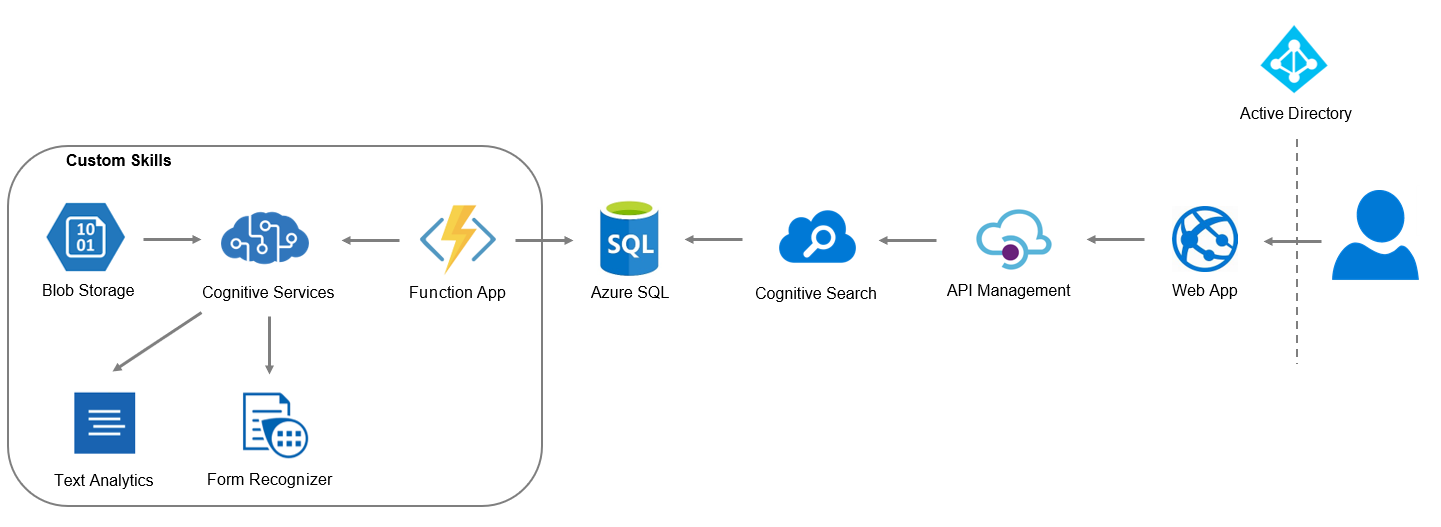
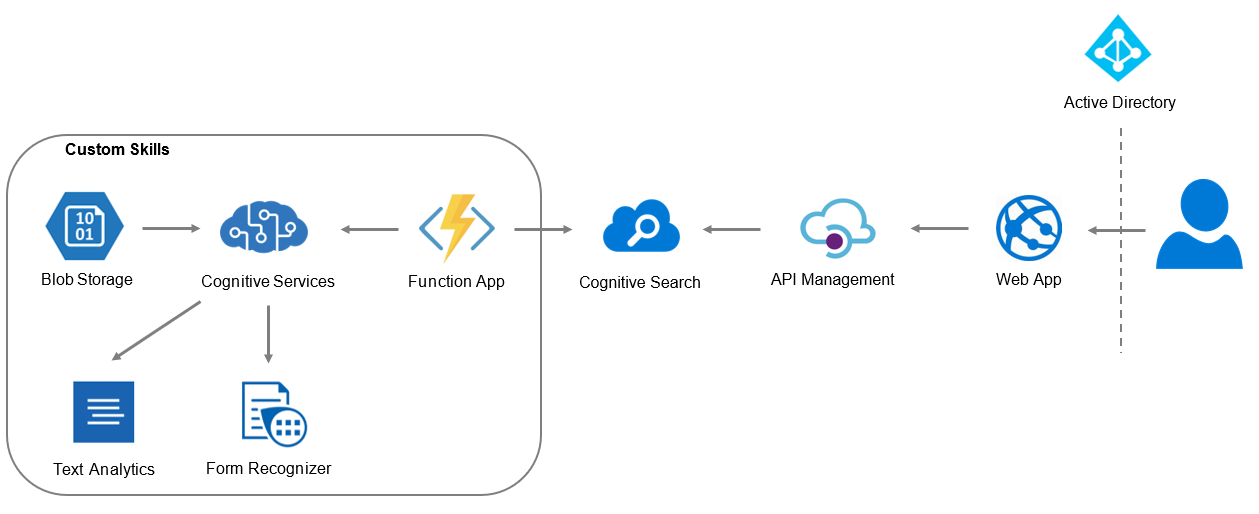
Update architecture and readme

diff --git a/README.md b/README.md
@@ -18,126 +18,37 @@ Wiele organizacji boryka się z problemem zarządzania wiedzą w organizacji. O 
 * ekstrakcja danych z dokumentów unstructured
 * przechowywanie dokumentów i ich metadanych w bazie danych
 * wyszukiwarka danych i dokumentów w postaci aplikacji webowej
-* możliwość wgrywania nowych plików
 
 ## Architektura rozwiązania
-(wstępna wersja)
 
 ![Image](images/architektura.png)
 
-Serwisy:
-* Function App, Azure AD, Graph API - do przygotowania danych (zapis w jednolitym formacie itp.)
-* Cognitive Services, Form Recognition (i/lub Document Extraction) - do wstępnej ekstrakcji danych
-* Azure Databricks - do połączenia Form Recognition z naszym własnym modelem sieci neuronowej i zapisania wyników w bazie danych
-* Blob Storage - baza danych przechowująca pliki wraz z ich metadanymi
-* Elastic Search App - klaster Elasticsearcha, który implementuje inteligentne wyszukiwanie. Jest to element opcjonalny, początkowo
-zaimplementujemy Azure Search lub Cognitive Search
-* Web App - aplikacja webowa (wyszukiwarka)
+## Opis działania aplikacji
+Pliki dokumentów będą przechowywane w bazie Azure Blob Storage. Z użyciem Function App i Cognitive Services (Text Analytics
+oraz Form Recognizer) utworzymy Custom Skille. Wyciągnięte meta-dane będą wyszukiwane poprzez Cognitive Search zintegrowanym 
+z API Management. Użytkownik będzie mieć dostęp do dokumentów i ich meta-danych poprzez aplikację webową (Web App), do której
+dostęp będzie ograniczony poprzez Active Directory.
 
-## Opis działania
-
-### 1. Przygotowanie Danych
-
-Azure Function App -> Azure AD -> Microsoft Graph
-
-Przykład: https://docs.microsoft.com/en-us/graph/api/driveitem-get-content-format?view=graph-rest-beta&tabs=http
-https://docs.microsoft.com/pl-pl/azure/active-directory/identity-protection/howto-identity-protection-graph-api
-
-### 2. Ekstrakcja danych
-
-Form Recognizer (Cognitive Services):
-
-https://azure.microsoft.com/en-us/services/cognitive-services/form-recognizer/
-
-https://techcommunity.microsoft.com/t5/azure-ai/accelerate-extraction-of-text-data-and-structure-from-your/ba-p/1507365
-
-https://docs.microsoft.com/en-us/azure/cognitive-services/form-recognizer/overview?tabs=v2-0
-
-Inne:
-- Document Extraction (Cognitive Services) 
-https://docs.microsoft.com/en-us/azure/search/cognitive-search-skill-document-extraction
-
-Możemy użyć tego serwisu jako pierwszy etap ekstrakcji, a potem dostosować wyniki do naszych potrzeb 
-(coś hardcodowanego lub sieć neuronowa).
-
-Dodatkowa ekstrakcja/model sieci - możemy użyć jakiś gotowych serwisów i funkcjonalności Azure (np. AML, Cognitive Services)
-i/lub wytrenować własny model sieci neuronowej (jako meta-learning) - na Databricksach lub lokalnie i wgrać gotowy model.
-
-Azure Databricks - możemy z poziomu jednego Notebooka odwołać się do REST API z Form Recognizer, następnie przerobić te dane (lub przepuścić przez model ML) i zapisać wynik do bazy.
-
-### 3. Przechowywanie danych
-
-* Blob Storage - prosta baza, można w niej przechowywać pliki
-* CosmosDB - fajna baza NoSQL, ale droga
-
-Porównanie: https://stackshare.io/stackups/azure-cosmos-db-vs-azure-storage
-
-Inne magazyny danych: https://docs.microsoft.com/en-us/azure/architecture/data-guide/technology-choices/data-storage
-
-### 4. Silnik wyszukiwania
-
-Pierwszy etap: użyjemy Azure Search lub Cognitive Search, ponieważ Elasticsearch to stosunkowo nowy serwis w Azure i nie
-jesteśmy pewni jego działania.
-
-Elasticsearch - na Azure 'Elastic Cloud'/'Elastic Stack' lub 'Elastic App Search'
-
-https://azure.microsoft.com/en-us/overview/linux-on-azure/elastic/#customer-stories
-
-https://www.elastic.co/blog/elasticsearch-service-on-elastic-cloud-now-generally-available-on-microsoft-azure
-
-Połączenie z Blob Storage: 
-https://azure.microsoft.com/pl-pl/blog/archive-elasticsearch-indices-to-azure-blob-storage-using-the-azure-cloud-plugin/
-
-Jeśli nie uda się z gotowym serwisem Azurowym to można utworzyć VMke na Azure i tam utworzyć klaster ES. 
-
-Jeśli będzie to działać to teoretycznie nie jest nam potrzebny Blob Storage (ani inna sql-owa baza)
-
-Ewentualnie możemy użyć najzwyklejszego indexera na Blob Storage: 
-https://azure.microsoft.com/en-us/blog/azure-search-indexer-for-azure-blob-storage-now-in-public-preview/
-ale myślę, że warto spróbować, ale np. zostawić to jako ostatni etap projektu, a najpierw zadbać o podstawową funkcjonalność.
-
-### 5. Aplikacja webowa
-
-Stack: Node, JS, React/Angular 
-
-Serwisy, których prawdopodobnie użyjemy:
-- App Service
-- Web App/Static Web App
-- Azure Function
-
-Linki:
-
-https://azure.microsoft.com/pl-pl/resources/videos/build-and-deply-nodejs-and-react-apps-with-vscode-appservice-and-cosmosdb/
-
-https://docs.microsoft.com/pl-pl/learn/modules/publish-app-service-static-web-app-api/
-
-https://www.pluralsight.com/guides/deploy-a-react-app-to-azure 
-
-deployowanie apki na Spring Boot i React do Azure:
-https://abdul-mannan.medium.com/deploying-a-spring-boot-react-app-to-azure-5b4d844a8d35
+Stack: Node, JS, React
 
 ### Podział obowiązków
 
 - Michał: preprocessing danych
-- Michał: użycie Form Recognition (Databricks)
-- Michał/Piotr/Malwina: meta-learning (ostateczna ekstrakcja cech)
-- Piotr: zapis wyniku do Blob Storage (Databricks)
-- Piotr/Malwina: implementacja Azure Searcha
-- Malwina: implementacja serweru do strony internetowej
+- Michał: utworzenie Custom Skilli
+- Piotr: Cognitive Search
+- Piotr/Malwina: integracja z API Management
 - Malwina: utworzenie UI wyszukiwarki
-
-+ (dodatkowo, na końcu) implementacja elasticsearcha
+- Piotr/Malwina: autoryzacja użytkowników
 
 ### Harmonogram
 
 Pierwszy kamień milowy - 24.12
-* ujednolicenie danych + ekstrakcja przez Form Recognition - Michał
+* pierwsza ekstrakcja danych - Michał
 * działająca baza danych zintegrowana z searchem - Piotr
 * proste wyszukiwanie + UI - Malwina
 
 
 Drugi kamień milowy - 18.01
-* ekstrakcja danych dopasowana do naszych potrzeb 
-* inteligentne wyszukiwanie po cechach dokumentów
-* ? możliwość wgrywania dokumentów
+* ekstrakcja danych w pełni dopasowana do naszych potrzeb 
+* autoryzacja użytkowników
 * ładny, działający UI
